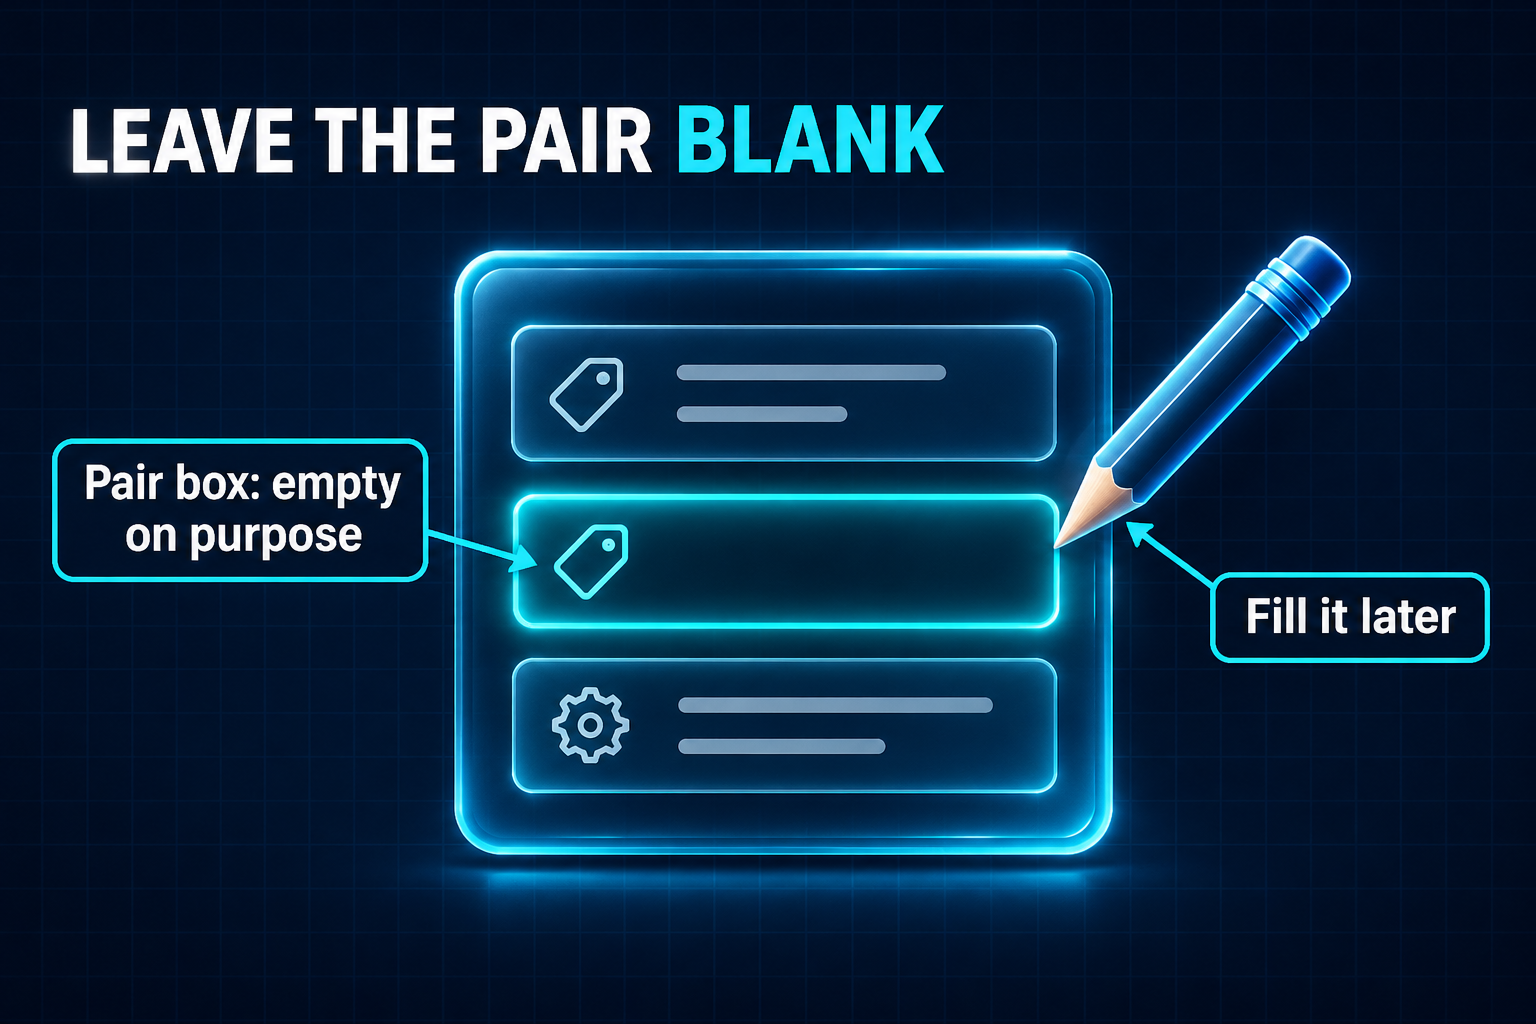
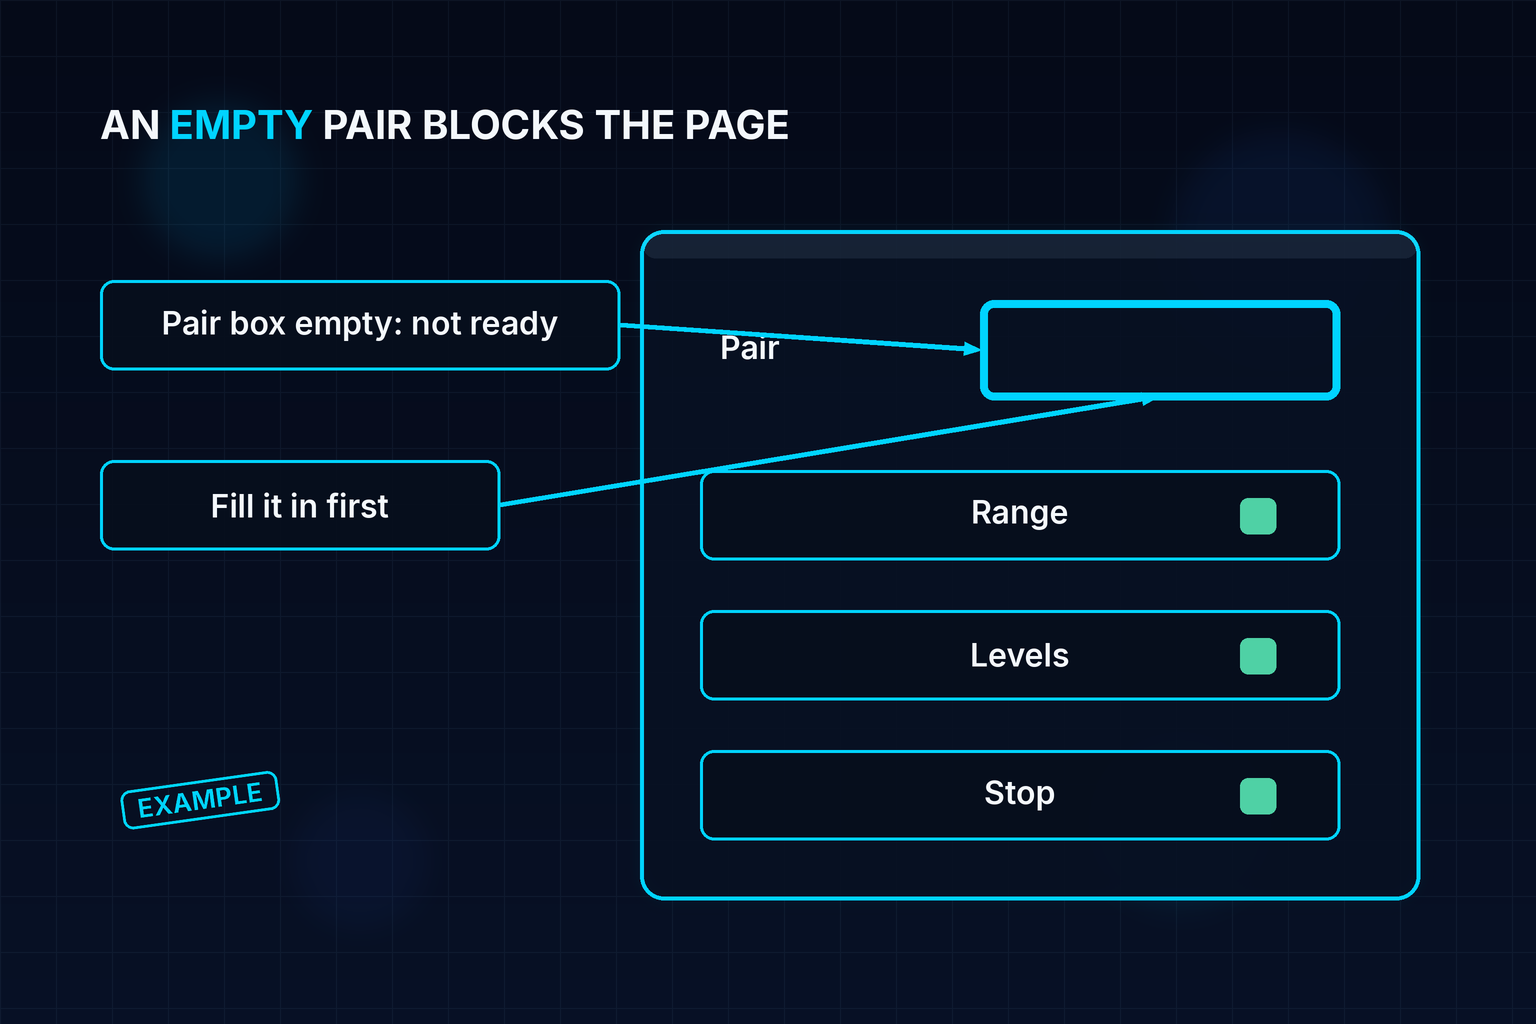
Score Cursor-agent BP-02 014 at 885ce9e (cursor3.png): PASS, placed (source cursor). Arrow tip now sits on the empty Pair box stroke. BP-02 31/31, 90/90. Local only, no push.

diff --git a/blueprint-image-qa/bp01-03-v2/REPORT.md b/blueprint-image-qa/bp01-03-v2/REPORT.md
@@ -480,3 +480,20 @@ Verified `a9d62740e64ba7b2acba552e361ffdc31bf48b8d` is the remote tip of `cursor
 - **BP-03: 28/28 — YES, 100%.**
 - **90-row total (BP-01..03): 89/90.**
 - Queue (BP-01..03): 1 — bp-02-what-you-need/014 (gen/bp-02-what-you-need/014/cursor3.png).
+
+---
+
+## Run on top of 3569a59 — 14 Nov 2026 (WITA): Cursor-agent remake for BP-02 014 (cursor3.png)
+
+Fetched the authentic 1536×1024 file from `kyleashton88-cyber/claude@885ce9ee877bc3ebb2b6b77f4b7f0294748c3221` via the public GitHub Contents API (base64). Saved as `gen/bp-02-what-you-need/014/cursor3.png`. Git blob matches the API sha: `70df3eddefb863a2ca26a15909506eb1ccc28991` (139351 bytes, RGB PNG). Diff vs cursor2 (`765a72fc647a3ef7c0ce1959bcdc156a4a3c2d60`): 1997 pixels changed, all in the 'Pair box empty: not ready' arrow (x=631–982, y=323–357); the fill tip is unchanged. The previously short tip now sits on and about 2px into the left cyan stroke of the empty Pair box (mid-head rows y=349–350 are continuous cyan into the stroke; no navy gap at the contact). Scored against the d1f6 narration at 7a0430a / b608319 plus the replacement text in REPORT-b608319.md, on the same strict rubric.
+
+| File | Result | Margins (l/r/t/b) | Scores | Reason |
+|---|---|---|---|---|
+| gen/bp-02-what-you-need/014/cursor3.png | PASS | 100/116/109/124 | 5/5/5/5/5/—/5 | Headline 'AN EMPTY PAIR BLOCKS THE PAGE' exact. Labels 'Pair box empty: not ready' and 'Fill it in first' exact. Pair box empty; Range, Levels and Stop tidy and ticked; EXAMPLE present. Both arrow tips touch. Matches the narration. Placed, source cursor. |
+
+### Updated counts (dropped rows excluded)
+- **BP-01: 31/31 — YES, 100%.**
+- **BP-02: 31/31 — YES, 100%.**
+- **BP-03: 28/28 — YES, 100%.**
+- **90-row total (BP-01..03): 90/90.**
+- Queue (BP-01..03): 0.
